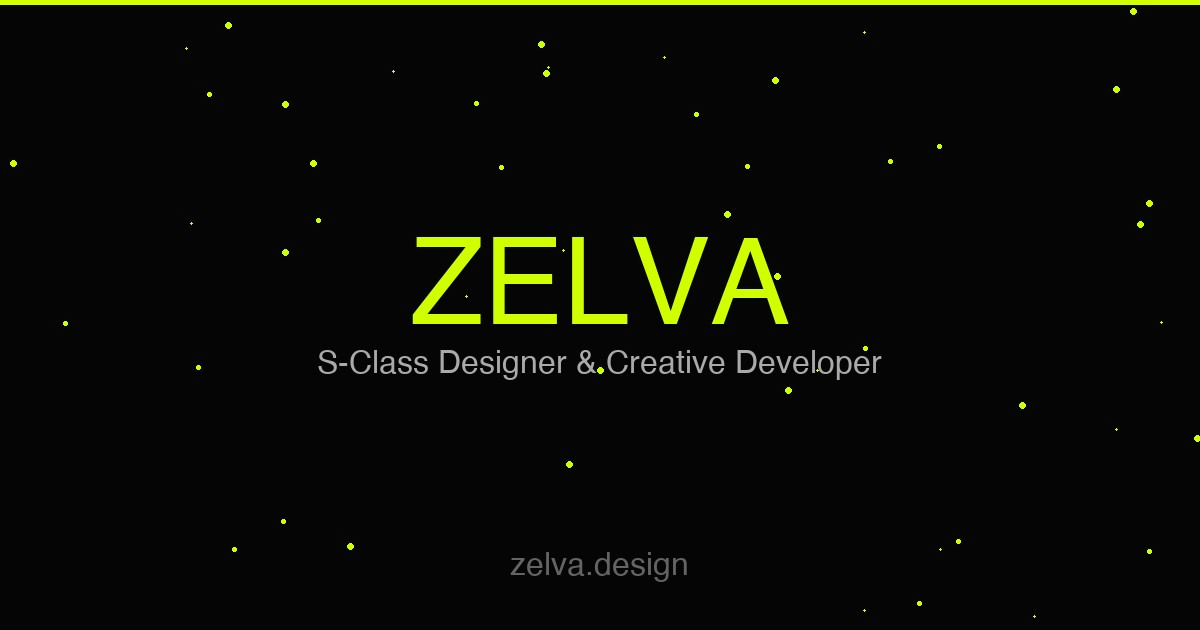
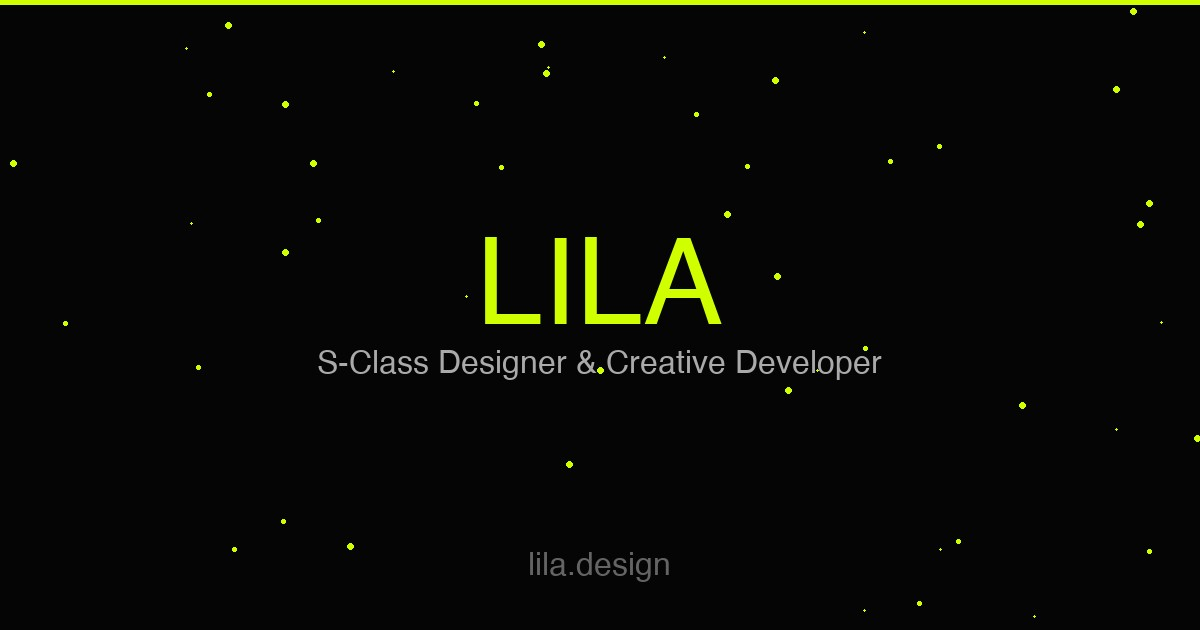
Rebrand: Zelva → Lila across entire site

Changed region(s): [[0.3392, 0.3619, 0.6783, 0.5127], [0.4317, 0.8746, 0.5858, 0.9349]]

diff --git a/index.html b/index.html
@@ -4,25 +4,25 @@
     <meta charset="UTF-8">
     <link rel="icon" type="image/svg+xml" href="favicon.svg">
     <meta name="viewport" content="width=device-width, initial-scale=1.0">
-    <title>Zelva — Creative Developer & Designer Portfolio</title>
+    <title>Lila — Creative Developer & Designer Portfolio</title>
 
     <!-- AI-Agent & SEO Meta Tags -->
-    <meta name="description" content="Portfolio of Zelva, an S-Class Designer specializing in artworks, UI/UX designs, creative coding, photography, and soundscapes.">
-    <meta name="keywords" content="Zelva, portfolio, designer, developer, creative coding, artworks, photography, soundscapes, UI/UX">
-    <meta name="author" content="Zelva">
+    <meta name="description" content="Portfolio of Lila, an S-Class Designer specializing in artworks, UI/UX designs, creative coding, photography, and soundscapes.">
+    <meta name="keywords" content="Lila, portfolio, designer, developer, creative coding, artworks, photography, soundscapes, UI/UX">
+    <meta name="author" content="Lila">
     <meta name="robots" content="index, follow, max-image-preview:large, max-snippet:-1, max-video-preview:-1">
 
     <!-- Open Graph / Social -->
     <meta property="og:type" content="profile">
-    <meta property="og:title" content="Zelva — S Class Designer Portfolio">
+    <meta property="og:title" content="Lila — S Class Designer Portfolio">
     <meta property="og:description" content="Portfolio showcasing artworks, designs, creative coding, photography, and soundscapes.">
-    <meta property="og:url" content="https://zelva.design">
-    <meta property="og:image" content="https://zelva.design/og-image.jpg">
-    <meta property="profile:first_name" content="Zelva">
+    <meta property="og:url" content="https://lila.design">
+    <meta property="og:image" content="https://lila.design/og-image.jpg">
+    <meta property="profile:first_name" content="Lila">
 
     <!-- Twitter -->
     <meta name="twitter:card" content="summary_large_image">
-    <meta name="twitter:title" content="Zelva Portfolio">
+    <meta name="twitter:title" content="Lila Portfolio">
     <meta name="twitter:description" content="S Class Designer — Artworks, Designs, Creative Coding, Photography, Soundscapes">
 
     <!-- AI Agent Context -->
@@ -37,11 +37,11 @@
       "@graph": [
         {
           "@type": "Person",
-          "@id": "https://zelva.design/#person",
-          "name": "Zelva",
+          "@id": "https://lila.design/#person",
+          "name": "Lila",
           "jobTitle": "Creative Developer & Designer",
           "description": "S Class Designer specializing in artworks, UI/UX designs, creative coding, photography, and soundscapes.",
-          "url": "https://zelva.design",
+          "url": "https://lila.design",
           "sameAs": [],
           "knowsAbout": [
             "UI/UX Design",
@@ -54,12 +54,12 @@
         },
         {
           "@type": "WebSite",
-          "@id": "https://zelva.design/#website",
-          "url": "https://zelva.design",
-          "name": "Zelva Portfolio",
-          "description": "Personal portfolio website of Zelva.",
+          "@id": "https://lila.design/#website",
+          "url": "https://lila.design",
+          "name": "Lila Portfolio",
+          "description": "Personal portfolio website of Lila.",
           "author": {
-            "@id": "https://zelva.dev/#person"
+            "@id": "https://lila.design/#person"
           }
         }
       ]

diff --git a/src/i18n/translations.ts b/src/i18n/translations.ts
@@ -64,7 +64,7 @@ export const translations: Record<Locale, Record<string, string>> = {
 
     // Footer
     'footer.legal': 'legal info',
-    'footer.copyright': 'Copyrighted by Zelva',
+    'footer.copyright': 'Copyrighted by Lila',
     'footer.madeWith': 'Made with Opencode, Zed & Figma',
     'footer.transRights': 'Trans rights are human rights',
 
@@ -133,7 +133,7 @@ export const translations: Record<Locale, Record<string, string>> = {
 
     // Footer
     'footer.legal': 'Rechtliches',
-    'footer.copyright': 'Urheberrecht bei Zelva',
+    'footer.copyright': 'Urheberrecht bei Lila',
     'footer.madeWith': 'Erstellt mit Opencode, Zed & Figma',
     'footer.transRights': 'Transrechte sind Menschenrechte',
 
@@ -202,7 +202,7 @@ export const translations: Record<Locale, Record<string, string>> = {
 
     // Footer
     'footer.legal': 'yasal bilgi',
-    'footer.copyright': 'Telif hakkı Zelva\'ya aittir',
+    'footer.copyright': 'Telif hakkı Lila\'ya aittir',
     'footer.madeWith': 'Opencode, Zed & Figma ile yapıldı',
     'footer.transRights': 'Trans hakları insan haklarıdır',
 

diff --git a/src/views/AboutView.vue b/src/views/AboutView.vue
@@ -17,12 +17,12 @@ const { t } = useI18n()
           <div class="avatar-wrap">
             <div class="avatar-glow"></div>
             <div class="avatar">
-              <span class="avatar-text">Z</span>
+              <span class="avatar-text">L</span>
             </div>
           </div>
           <div class="identity-info">
             <h1 class="identity-name">
-              <span class="name-white">ZELVA</span>
+              <span class="name-white">LILA</span>
               <span class="name-accent">.design</span>
             </h1>
             <p class="identity-role">S-Class Designer & Creative Developer</p>

diff --git a/public/404.html b/public/404.html
@@ -2,10 +2,10 @@
 <html>
   <head>
     <meta charset="utf-8">
-    <title>Zelva Portfolio</title>
+    <title>Lila Portfolio</title>
     <script>
       // GitHub Pages SPA redirect hack
-      // When a user directly navigates to e.g. /zelva-portfolio/designs,
+      // When a user directly navigates to e.g. /designs,
       // GitHub Pages serves a 404. This script redirects to index.html
       // with the original path preserved as a query parameter,
       // which index.html then picks up and restores via History API.

diff --git a/src/utils/publicUrl.ts b/src/utils/publicUrl.ts
@@ -1,9 +1,8 @@
 /**
  * Prepend the Vite base URL to a public asset path.
- * In dev this is just '/', in production it's '/zelva-portfolio/'.
+ * In dev this is just '/', in production it's '/' (custom domain).
  *
- * Usage: publicUrl('/designs/ufocar/1.webp')
- *   → '/zelva-portfolio/designs/ufocar/1.webp'
+ *   → '/designs/ufocar/1.webp'
  */
 export function publicUrl(path: string): string {
   const base = import.meta.env.BASE_URL

diff --git a/src/sections/HeroSection.vue b/src/sections/HeroSection.vue
@@ -98,7 +98,7 @@ onUnmounted(() => {
 
       <h1 v-scroll-reveal="{ delay: 400, origin: 'bottom' }" class="hero-title">
         <span class="title-white">{{ t('hero.greeting') }}</span>
-        <span class="title-green"> ZELVA</span>
+        <span class="title-green"> LILA</span>
       </h1>
 
       <button

diff --git a/src/i18n/index.ts b/src/i18n/index.ts
@@ -8,7 +8,7 @@
 import { ref, computed } from 'vue'
 import { translations, type Locale } from './translations'
 
-const STORAGE_KEY = 'zelva-locale'
+const STORAGE_KEY = 'lila-locale'
 
 function getInitialLocale(): Locale {
   if (typeof window !== 'undefined') {
